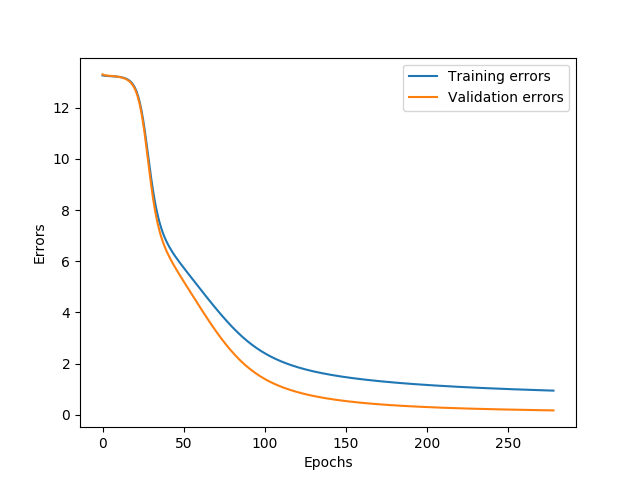
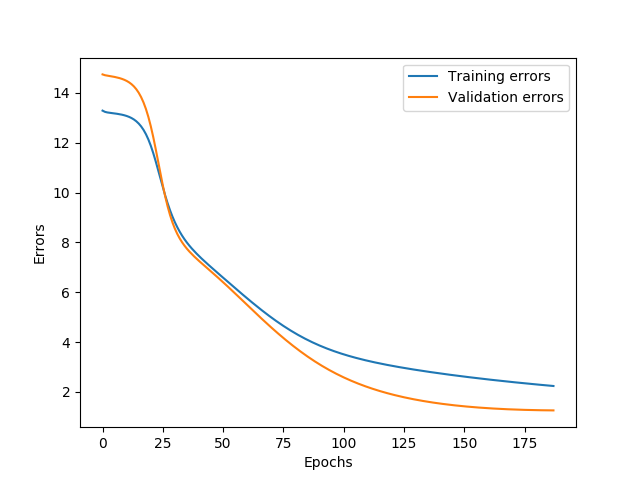
in progress: mnist

diff --git a/practice2/nn_mnist.py b/practice2/nn_mnist.py
@@ -67,7 +67,7 @@ print "----------------------"
 print "   Start training...  "
 print "----------------------"
 
-batch_size = 1
+batch_size = 20
 training_errors = []
 validation_errors = []
 test_errors = []
@@ -83,15 +83,12 @@ while validation_error <= last_validation_error and difference > 0.001:
         batch_training_ys = train_y[jj * batch_size: jj * batch_size + batch_size]
         sess.run(train, feed_dict={x: batch_training_xs, y_: batch_training_ys})
 
-    for kk in xrange(len(valid_x) / batch_size):
-        batch_validation_xs = valid_x[kk * batch_size: kk * batch_size + batch_size]
-        batch_validation_ys = valid_y[kk * batch_size: kk * batch_size + batch_size]
-        sess.run(train, feed_dict={x: batch_validation_xs, y_: batch_validation_ys})
-
     training_error = sess.run(loss, feed_dict={x: batch_training_xs, y_: batch_training_ys})
     training_errors.append(training_error)
 
-    validation_error = sess.run(loss, feed_dict={x: batch_validation_xs, y_: batch_validation_ys})
+    sess.run(train, feed_dict={x: valid_x, y_: valid_y})
+
+    validation_error = sess.run(loss, feed_dict={x: valid_x, y_: valid_y})
     validation_errors.append(validation_error)
     if epoch > 1:
         difference = validation_errors[-2] - validation_error
@@ -101,7 +98,7 @@ while validation_error <= last_validation_error and difference > 0.001:
                   batch_xs=batch_training_xs, batch_ys=batch_training_ys)
 
     print_results(mode="Validation", epoch_number=epoch, error=validation_error,
-                  batch_xs=batch_validation_xs, batch_ys=batch_validation_ys)
+                  batch_xs=valid_x, batch_ys=valid_y)
 
 # ---------------- Visualizing some element of the MNIST dataset --------------
 

diff --git a/practice2/nn_iris.py b/practice2/nn_iris.py
@@ -92,17 +92,12 @@ while validation_error <= last_validation_error and difference > 0.001:
         batch_training_ys = y_training_data[jj * batch_size: jj * batch_size + batch_size]
         sess.run(train, feed_dict={x: batch_training_xs, y_: batch_training_ys})
 
-    for kk in xrange(len(x_validation_data) / batch_size):
-        batch_validation_xs = x_validation_data[kk * batch_size: kk * batch_size + batch_size]
-        batch_validation_ys = y_validation_data[kk * batch_size: kk * batch_size + batch_size]
-        sess.run(train, feed_dict={x: batch_validation_xs, y_: batch_validation_ys})
-
     # Training
     training_error = sess.run(loss, feed_dict={x: batch_training_xs, y_: batch_training_ys})
     training_errors.append(training_error)
 
     # Validation
-    validation_error = sess.run(loss, feed_dict={x: batch_validation_xs, y_: batch_validation_ys})
+    validation_error = sess.run(loss, feed_dict={x: x_validation_data, y_: y_validation_data})
 
     validation_errors.append(validation_error)
     if epoch > 1:
@@ -113,7 +108,7 @@ while validation_error <= last_validation_error and difference > 0.001:
                   epoch_number=epoch)
 
     # Validation
-    print_results(mode="Validation", error=validation_error, batch_xs=batch_validation_xs, batch_ys=batch_validation_ys,
+    print_results(mode="Validation", error=validation_error, batch_xs=x_validation_data, batch_ys=y_validation_data,
                   epoch_number=epoch)
     print "----------------------------------------------------------------------------------"
 
